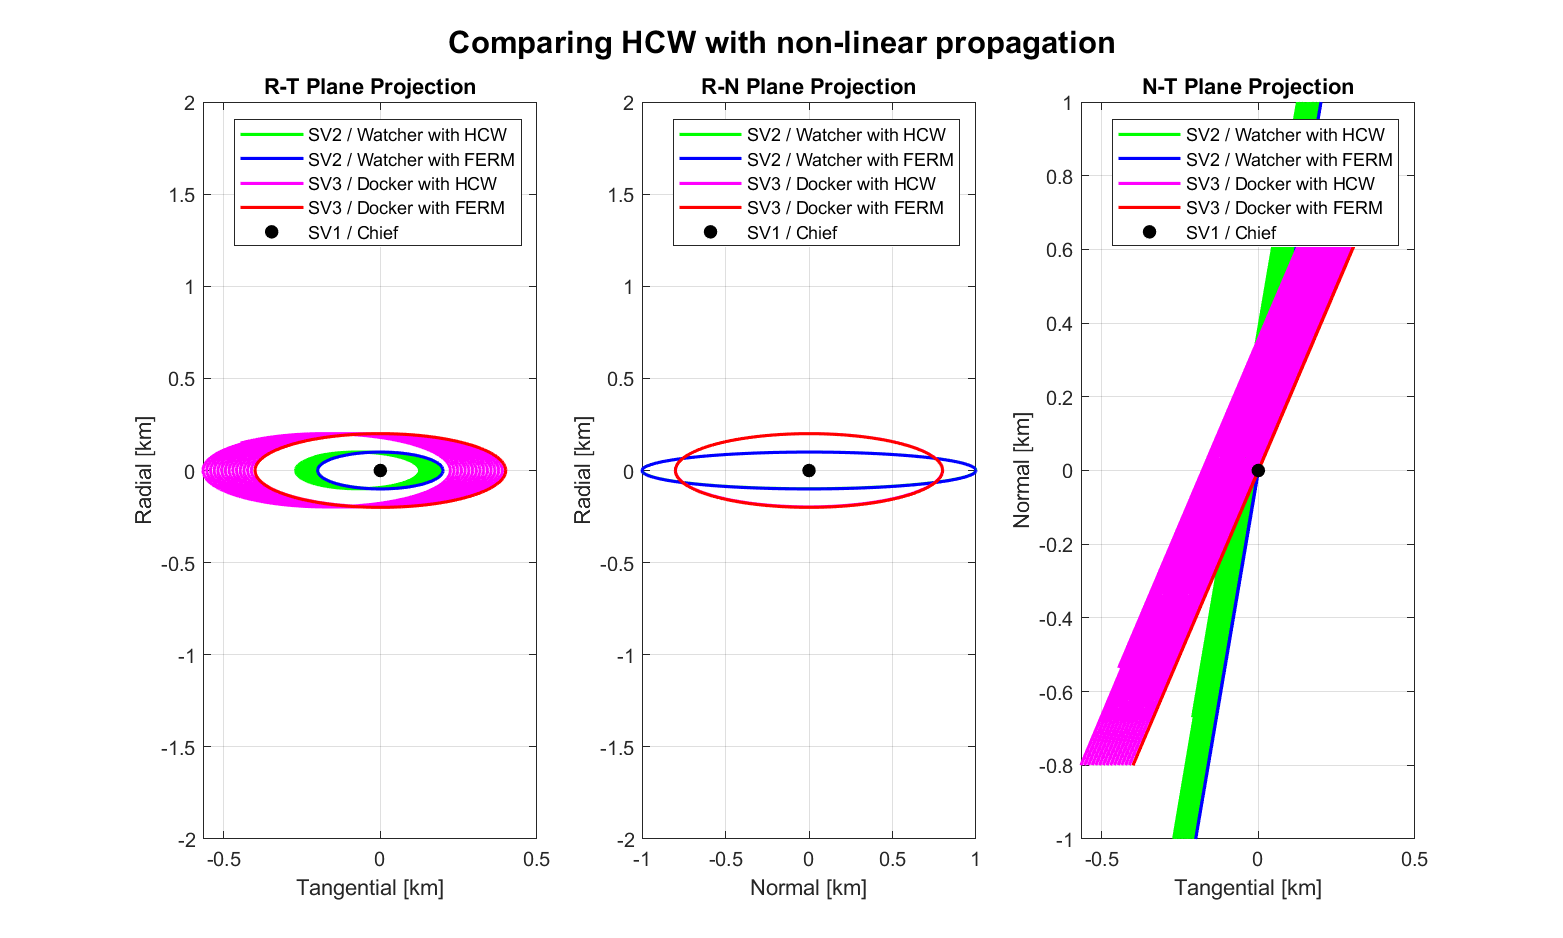
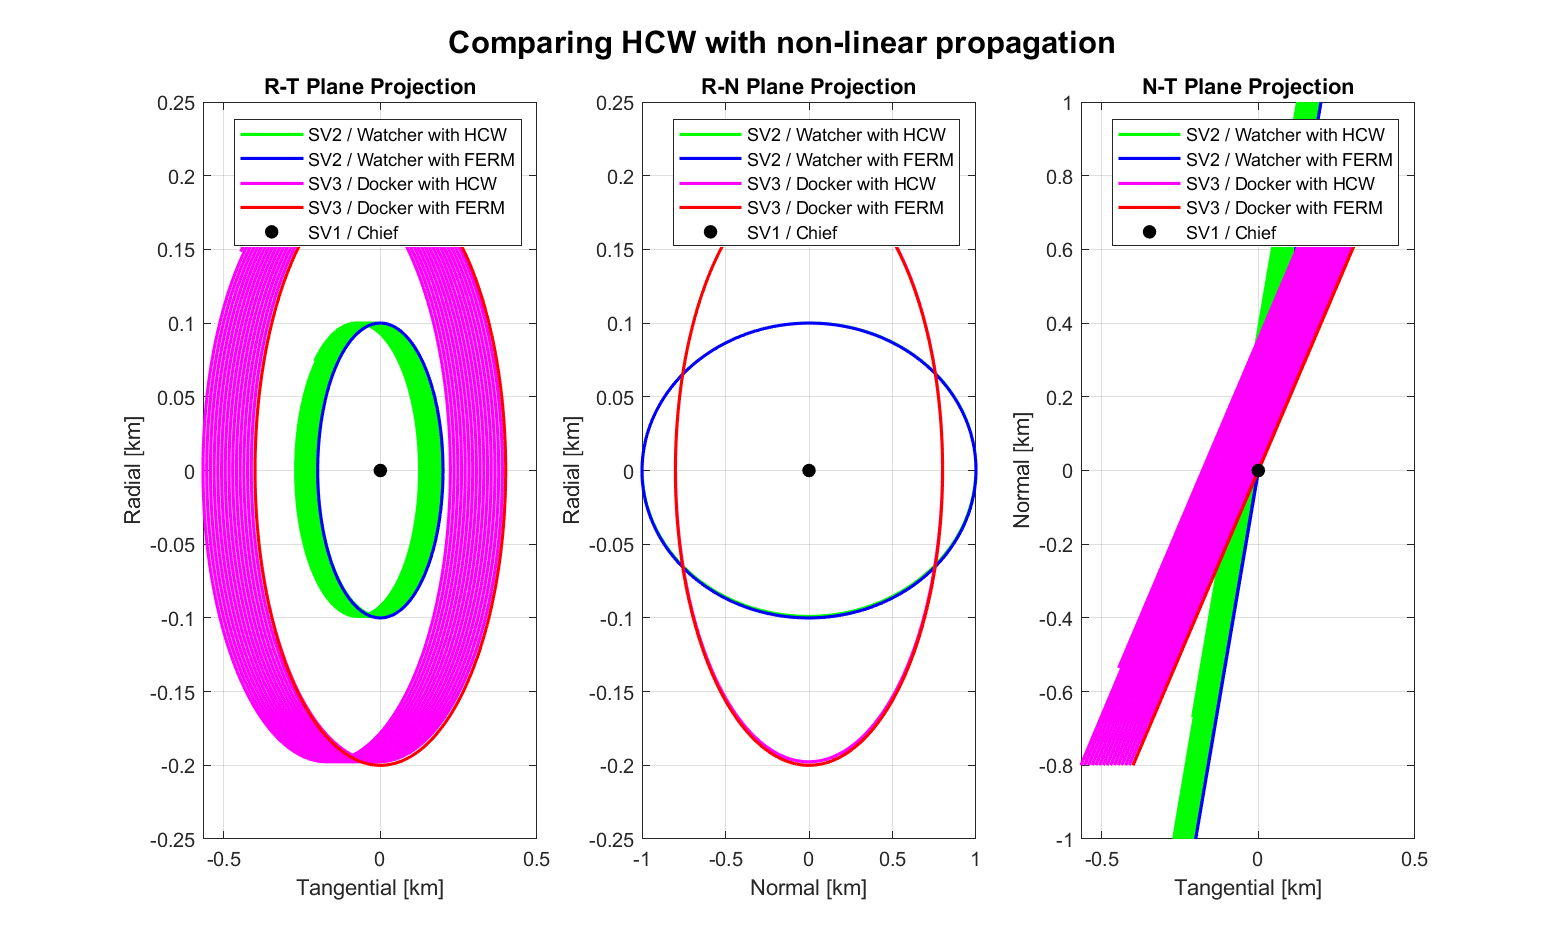
Fixing one plot for PS3, but we are done!

diff --git a/sim/sim_main.m b/sim/sim_main.m
@@ -96,53 +96,53 @@ if run_PS3
     %plot_RT_RN_projections(SV2_HCW_pos, SV3_HCW_pos, 'HCW evaluated relative orbits', 'figures/PS3/RTN_projections_HCW.png');
     % plot_RT_RN_projections(SV2_rel_pos, SV3_rel_pos, 'Non-linear EOMs relative orbits', 'figures/PS3/RTN_projections_numerical.png');
 
-    %plot_RT_RN_projections_both(SV2_HCW_pos,SV2_rel_pos,SV3_HCW_pos,SV3_rel_pos, 'Comparing HCW with non-linear propagation', 'figures/PS3/RTN_projections_HCW_comparison.png');
+    plot_RT_RN_projections_both(SV2_HCW_pos,SV2_rel_pos,SV3_HCW_pos,SV3_rel_pos, 'Comparing HCW with non-linear propagation', 'figures/PS3/RTN_projections_HCW_comparison.png');
     %plot_3D_rel_orbit(SV2_HCW_pos,SV3_HCW_pos, 'figures/PS3/3D_HCW_orbit_SV2.png', 'figures/PS3/3D_HCW_orbit_SV3.png');
 
-    %%%%% PLOT OF RELATIVE ORBITS USING YA %%%%%
-    fprintf('Average rho-to-r_o ratio for SV2: %.3e\n',rho_pos_ratio_SV2_avg);
-    fprintf('Average rho-to-r_o ratio for SV3: %.3e\n',rho_pos_ratio_SV3_avg);
-    fprintf('K_YA for SV2: \n');
-    disp(K_YA_SV2);
-    fprintf('K_YA for SV3: \n');
-    disp(K_YA_SV3);
-    fprintf('Unscaled initial ROE for SV2: \n');
-    disp(ROE_SV2_unscaled);
-    fprintf('Unscaled initial ROE for SV3: \n');
-    disp(ROE_SV3_unscaled); 
-    
-    % Non-linear (ground truth)
-    plot_rel_pos_vel_single(t_2, t_orbit, SV2_rel_pos_ecc, SV2_rel_vel_ecc, 'Non-linear method: SV2 relative position + velocity with eccentric chief', 'figures/PS3/ecc_nonlinear_pos_vel_SV2.png');
-    plot_rel_pos_vel_single(t_2, t_orbit, SV3_rel_pos_ecc, SV3_rel_vel_ecc, 'Non-linear method: SV3 relative position + velocity with eccentric chief', 'figures/PS3/ecc_nonlinear_pos_vel_SV3.png');
-    plot_RT_RN_projections(SV2_rel_pos_ecc, SV3_rel_pos_ecc, 'Non-linear method: relative orbits with eccentric chief', 'figures/PS3/RTN_projections_numerical_eccentric.png');
-    plot_3D_rel_orbit(SV2_rel_vel_ecc,SV2_rel_vel_ecc,'Non-linear method: 3D orbits','figures/PS3/ecc_nonlinear_3D_orbits.png')
-
-    % YA Solution
-    plot_rel_pos_vel_single(t_2, t_orbit, SV2_YA_pos, SV2_YA_vel, 'YA solution: SV2 relative position + velocity', 'figures/PS3/YA_pos_vel_SV2.png');
-    plot_rel_pos_vel_single(t_2, t_orbit, SV3_YA_pos, SV3_YA_vel, 'YA solution: SV3 relative position + velocity', 'figures/PS3/YA_pos_vel_SV3.png');
-    plot_RT_RN_projections(SV2_YA_pos, SV3_YA_pos, 'YA solution: relative orbits', 'figures/PS3/RTN_projections_YA.png');
-    plot_3D_rel_orbit(SV2_YA_pos,SV2_YA_vel,'YA solution: 3D orbits','figures/PS3/YA_sol_3D_orbits.png')
-
-    % Geometric mapping
-    plot_rel_pos_vel_single(t_2, t_orbit, SV2_YA_mapping_pos, SV2_YA_mapping_vel, 'Geometric mapping: SV2 relative position + velocity', 'figures/PS3/YA_mapping_pos_vel_SV2.png');
-    plot_rel_pos_vel_single(t_2, t_orbit, SV3_YA_mapping_pos, SV3_YA_mapping_vel, 'Geometric mapping: SV3 relative position + velocity', 'figures/PS3/YA_mapping_pos_vel_SV3.png');
-    plot_RT_RN_projections(SV2_YA_mapping_pos, SV3_YA_mapping_pos, 'Geometric mapping: relative orbits', 'figures/PS3/RTN_projections_YA_mapping.png');
-    plot_3D_rel_orbit(SV2_YA_mapping_pos,SV2_YA_mapping_vel,'Geometric mapping: 3D orbits','figures/PS3/YA_mapping_3D_orbits.png')
-
-    % Combined plots
-    plot_RT_RN_projections_triple(SV2_YA_pos,SV2_YA_mapping_pos,SV2_rel_pos_ecc,SV3_YA_pos,SV3_YA_mapping_pos,SV3_rel_pos_ecc, 'Comparison of YA methods', 'figures/PS3/RTN_projections_YA_comparison.png');
-    plot_RT_RN_error_projections(SV2_YA_pos,SV2_YA_mapping_pos,SV2_rel_pos_ecc,SV3_YA_pos,SV3_YA_mapping_pos,SV3_rel_pos_ecc,'Comparison of errors in YA methods','figures/PS3/RTN_error_projections_YA_comparison.png')
-    plot_3D_rel_orbits_triple(SV2_YA_pos,SV2_YA_mapping_pos,SV2_rel_pos_ecc,SV3_YA_pos,SV3_YA_mapping_pos,SV3_rel_pos_ecc,'Comparison of 3D orbits','figures/PS3/3D_YA_comparison.png');
-
-    % Combined plots with non-zero semi-major axis separation
-    plot_RT_RN_projections_triple(SV2_YA_pos_2,SV2_YA_mapping_pos_2,SV2_rel_pos_ecc_2,SV3_YA_pos_2,SV3_YA_mapping_pos_2,SV3_rel_pos_ecc_2, 'Comparison of YA methods with semi-major axis separation', 'figures/PS3/RTN_projections_YA_comparison_2.png');
-    plot_RT_RN_error_projections(SV2_YA_pos_2,SV2_YA_mapping_pos_2,SV2_rel_pos_ecc_2,SV3_YA_pos_2,SV3_YA_mapping_pos_2,SV3_rel_pos_ecc_2,'Comparison of errors in YA methods with semi-major axis separation','figures/PS3/RTN_error_projections_YA_comparison_2.png')
-    plot_3D_rel_orbits_triple(SV2_YA_pos_2,SV2_YA_mapping_pos_2,SV2_rel_pos_ecc_2,SV3_YA_pos_2,SV3_YA_mapping_pos_2,SV3_rel_pos_ecc_2,'Comparison of 3D orbits with semi-major axis separation','figures/PS3/3D_YA_comparison_2.png');
-
-    % Combined plots with highly-eccentric chief orbit
-    plot_RT_RN_projections_triple(SV2_YA_pos_3,SV2_YA_mapping_pos_3,SV2_rel_pos_ecc_3,SV3_YA_pos_3,SV3_YA_mapping_pos_3,SV3_rel_pos_ecc_3, 'Comparison of YA methods with highly-eccentric chief orbit', 'figures/PS3/RTN_projections_YA_comparison_3.png');
-    plot_RT_RN_error_projections(SV2_YA_pos_3,SV2_YA_mapping_pos_3,SV2_rel_pos_ecc_3,SV3_YA_pos_3,SV3_YA_mapping_pos_3,SV3_rel_pos_ecc_3,'Comparison of errors in YA methods with highly-eccentric chief orbit','figures/PS3/RTN_error_projections_YA_comparison_3.png')
-    plot_3D_rel_orbits_triple(SV2_YA_pos_3,SV2_YA_mapping_pos_3,SV2_rel_pos_ecc_3,SV3_YA_pos_3,SV3_YA_mapping_pos_3,SV3_rel_pos_ecc_3,'Comparison of 3D orbits with highly-eccentric chief orbit','figures/PS3/3D_YA_comparison_3.png');
+    % %%%%% PLOT OF RELATIVE ORBITS USING YA %%%%%
+    % fprintf('Average rho-to-r_o ratio for SV2: %.3e\n',rho_pos_ratio_SV2_avg);
+    % fprintf('Average rho-to-r_o ratio for SV3: %.3e\n',rho_pos_ratio_SV3_avg);
+    % fprintf('K_YA for SV2: \n');
+    % disp(K_YA_SV2);
+    % fprintf('K_YA for SV3: \n');
+    % disp(K_YA_SV3);
+    % fprintf('Unscaled initial ROE for SV2: \n');
+    % disp(ROE_SV2_unscaled);
+    % fprintf('Unscaled initial ROE for SV3: \n');
+    % disp(ROE_SV3_unscaled); 
+    % 
+    % % Non-linear (ground truth)
+    % plot_rel_pos_vel_single(t_2, t_orbit, SV2_rel_pos_ecc, SV2_rel_vel_ecc, 'Non-linear method: SV2 relative position + velocity with eccentric chief', 'figures/PS3/ecc_nonlinear_pos_vel_SV2.png');
+    % plot_rel_pos_vel_single(t_2, t_orbit, SV3_rel_pos_ecc, SV3_rel_vel_ecc, 'Non-linear method: SV3 relative position + velocity with eccentric chief', 'figures/PS3/ecc_nonlinear_pos_vel_SV3.png');
+    % plot_RT_RN_projections(SV2_rel_pos_ecc, SV3_rel_pos_ecc, 'Non-linear method: relative orbits with eccentric chief', 'figures/PS3/RTN_projections_numerical_eccentric.png');
+    % plot_3D_rel_orbit(SV2_rel_vel_ecc,SV2_rel_vel_ecc,'Non-linear method: 3D orbits','figures/PS3/ecc_nonlinear_3D_orbits.png')
+    % 
+    % % YA Solution
+    % plot_rel_pos_vel_single(t_2, t_orbit, SV2_YA_pos, SV2_YA_vel, 'YA solution: SV2 relative position + velocity', 'figures/PS3/YA_pos_vel_SV2.png');
+    % plot_rel_pos_vel_single(t_2, t_orbit, SV3_YA_pos, SV3_YA_vel, 'YA solution: SV3 relative position + velocity', 'figures/PS3/YA_pos_vel_SV3.png');
+    % plot_RT_RN_projections(SV2_YA_pos, SV3_YA_pos, 'YA solution: relative orbits', 'figures/PS3/RTN_projections_YA.png');
+    % plot_3D_rel_orbit(SV2_YA_pos,SV2_YA_vel,'YA solution: 3D orbits','figures/PS3/YA_sol_3D_orbits.png')
+    % 
+    % % Geometric mapping
+    % plot_rel_pos_vel_single(t_2, t_orbit, SV2_YA_mapping_pos, SV2_YA_mapping_vel, 'Geometric mapping: SV2 relative position + velocity', 'figures/PS3/YA_mapping_pos_vel_SV2.png');
+    % plot_rel_pos_vel_single(t_2, t_orbit, SV3_YA_mapping_pos, SV3_YA_mapping_vel, 'Geometric mapping: SV3 relative position + velocity', 'figures/PS3/YA_mapping_pos_vel_SV3.png');
+    % plot_RT_RN_projections(SV2_YA_mapping_pos, SV3_YA_mapping_pos, 'Geometric mapping: relative orbits', 'figures/PS3/RTN_projections_YA_mapping.png');
+    % plot_3D_rel_orbit(SV2_YA_mapping_pos,SV2_YA_mapping_vel,'Geometric mapping: 3D orbits','figures/PS3/YA_mapping_3D_orbits.png')
+    % 
+    % % Combined plots
+    % plot_RT_RN_projections_triple(SV2_YA_pos,SV2_YA_mapping_pos,SV2_rel_pos_ecc,SV3_YA_pos,SV3_YA_mapping_pos,SV3_rel_pos_ecc, 'Comparison of YA methods', 'figures/PS3/RTN_projections_YA_comparison.png');
+    % plot_RT_RN_error_projections(SV2_YA_pos,SV2_YA_mapping_pos,SV2_rel_pos_ecc,SV3_YA_pos,SV3_YA_mapping_pos,SV3_rel_pos_ecc,'Comparison of errors in YA methods','figures/PS3/RTN_error_projections_YA_comparison.png')
+    % plot_3D_rel_orbits_triple(SV2_YA_pos,SV2_YA_mapping_pos,SV2_rel_pos_ecc,SV3_YA_pos,SV3_YA_mapping_pos,SV3_rel_pos_ecc,'Comparison of 3D orbits','figures/PS3/3D_YA_comparison.png');
+    % 
+    % % Combined plots with non-zero semi-major axis separation
+    % plot_RT_RN_projections_triple(SV2_YA_pos_2,SV2_YA_mapping_pos_2,SV2_rel_pos_ecc_2,SV3_YA_pos_2,SV3_YA_mapping_pos_2,SV3_rel_pos_ecc_2, 'Comparison of YA methods with semi-major axis separation', 'figures/PS3/RTN_projections_YA_comparison_2.png');
+    % plot_RT_RN_error_projections(SV2_YA_pos_2,SV2_YA_mapping_pos_2,SV2_rel_pos_ecc_2,SV3_YA_pos_2,SV3_YA_mapping_pos_2,SV3_rel_pos_ecc_2,'Comparison of errors in YA methods with semi-major axis separation','figures/PS3/RTN_error_projections_YA_comparison_2.png')
+    % plot_3D_rel_orbits_triple(SV2_YA_pos_2,SV2_YA_mapping_pos_2,SV2_rel_pos_ecc_2,SV3_YA_pos_2,SV3_YA_mapping_pos_2,SV3_rel_pos_ecc_2,'Comparison of 3D orbits with semi-major axis separation','figures/PS3/3D_YA_comparison_2.png');
+    % 
+    % % Combined plots with highly-eccentric chief orbit
+    % plot_RT_RN_projections_triple(SV2_YA_pos_3,SV2_YA_mapping_pos_3,SV2_rel_pos_ecc_3,SV3_YA_pos_3,SV3_YA_mapping_pos_3,SV3_rel_pos_ecc_3, 'Comparison of YA methods with highly-eccentric chief orbit', 'figures/PS3/RTN_projections_YA_comparison_3.png');
+    % plot_RT_RN_error_projections(SV2_YA_pos_3,SV2_YA_mapping_pos_3,SV2_rel_pos_ecc_3,SV3_YA_pos_3,SV3_YA_mapping_pos_3,SV3_rel_pos_ecc_3,'Comparison of errors in YA methods with highly-eccentric chief orbit','figures/PS3/RTN_error_projections_YA_comparison_3.png')
+    % plot_3D_rel_orbits_triple(SV2_YA_pos_3,SV2_YA_mapping_pos_3,SV2_rel_pos_ecc_3,SV3_YA_pos_3,SV3_YA_mapping_pos_3,SV3_rel_pos_ecc_3,'Comparison of 3D orbits with highly-eccentric chief orbit','figures/PS3/3D_YA_comparison_3.png');
 
     %plot_rel_pos_vel_single(t_2, t_orbit, SV2_YA_mapping_pos, SV2_YA_mapping_vel, 'SV2 YA gemetric mapping relative position + velocity', 'figures/PS3/YA_mapping_pos_vel_SV2.png');
     %plot_rel_pos_vel_single(t_2, t_orbit, SV3_YA_mapping_pos, SV3_YA_mapping_vel, 'SV3 YA gemetric mapping relative position + velocity', 'figures/PS3/YA_mapping_pos_vel_SV3.png');

diff --git a/sim/plotting_methods/plot_RT_RN_projections_both.m b/sim/plotting_methods/plot_RT_RN_projections_both.m
@@ -16,7 +16,6 @@ function plot_RT_RN_projections_both(SV2_rel_pos1, SV2_rel_pos2, SV3_rel_pos1, S
     plot(0, 0, 'ko', 'MarkerFaceColor', 'k'); % Origin
     grid on;
     ylabel('Radial [km]'); xlabel('Tangential [km]');
-    ylim([-2.0, 2.0]);
     title('R-T Plane Projection');
     legend('SV2 / Watcher with HCW', 'SV2 / Watcher with FERM', 'SV3 / Docker with HCW', 'SV3 / Docker with FERM', 'SV1 / Chief');
 
@@ -29,7 +28,6 @@ function plot_RT_RN_projections_both(SV2_rel_pos1, SV2_rel_pos2, SV3_rel_pos1, S
     plot(0, 0, 'ko', 'MarkerFaceColor', 'k'); % Origin
     grid on;
     ylabel('Radial [km]'); xlabel('Normal [km]');
-    ylim([-2.0, 2.0]);
     title('R-N Plane Projection');
     legend('SV2 / Watcher with HCW', 'SV2 / Watcher with FERM', 'SV3 / Docker with HCW', 'SV3 / Docker with FERM', 'SV1 / Chief');
 
